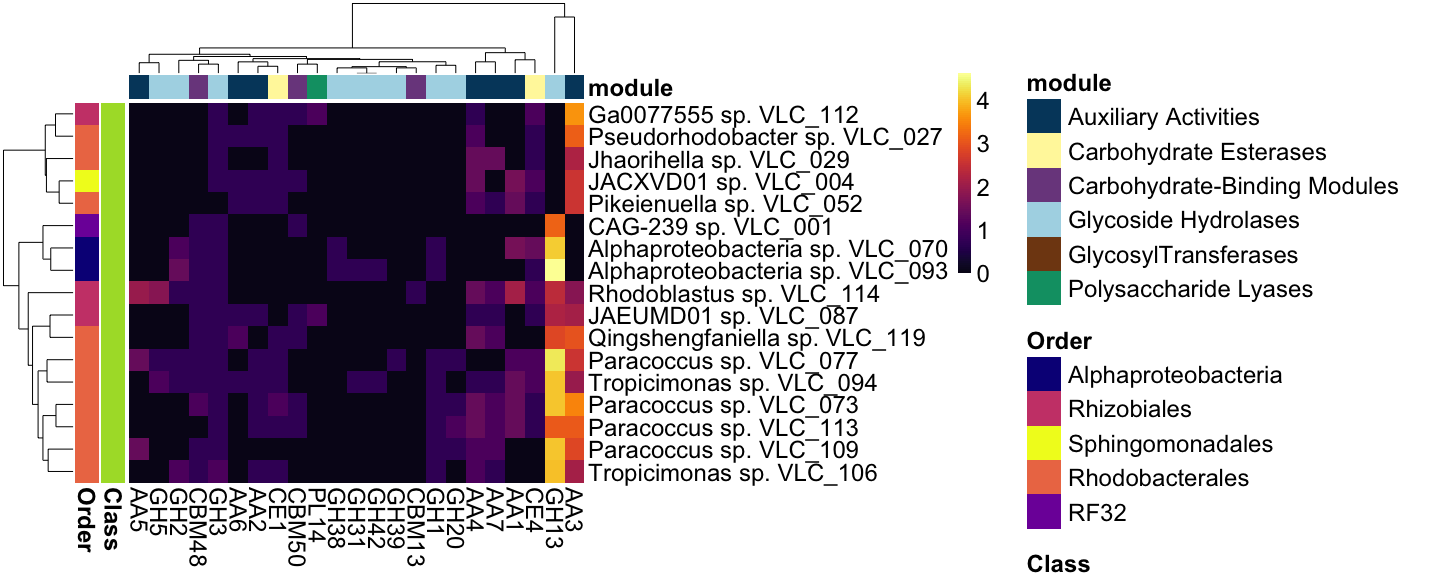
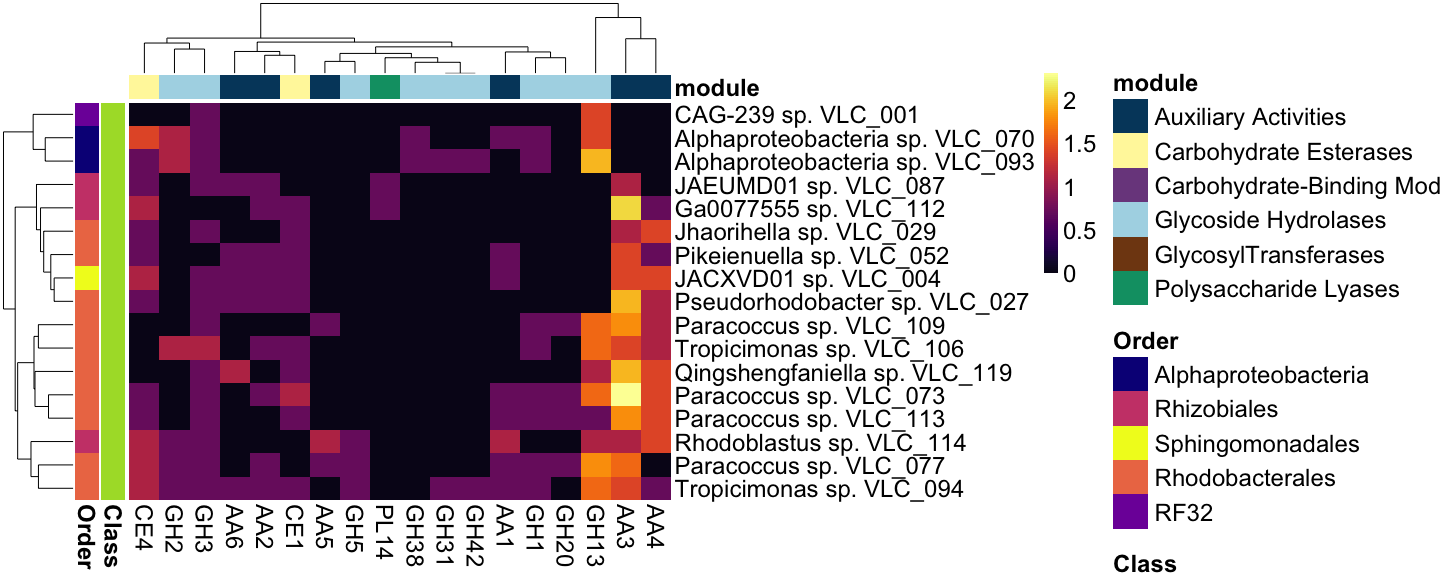
updates to remove partial gene hits

diff --git a/scripts/R_scripts/LandCrabMetaG.md b/scripts/R_scripts/LandCrabMetaG.md
@@ -1,7 +1,7 @@
 Land Crab Gut Microbiomes
 ================
 Cassie Ettinger
-2024-10-01
+2026-11-02
 
 Project: Unlocking the terrestrial realm: Are microbial symbioses the
 key to land crab terrestrial invasions? Collaborators: Cassie Ettinger,
@@ -1002,6 +1002,9 @@ krak_bray_crab_phylo = plot_ordination(physeq = physeq_krak_nC_bac,
 # Save as PNG
 ggsave("plots/ordination/mag_kraken_ordinations_diffgroup.png",
     dpi = 300, device = "png", height = 10, width = 9, units = "in")
+
+ggsave("plots/ordination/mag_kraken_ordinations_diffgroup.pdf",
+    dpi = 300, device = "pdf", height = 10, width = 9, units = "in")
 ```
 
 ``` r
@@ -4182,6 +4185,14 @@ dbcan.dram.meta <- vroom("data/DRAM/carbon_util.txt")
     ## ℹ Specify the column types or set `show_col_types = FALSE` to quiet this message.
 
 ``` r
+gff <- vroom("data/DRAM/annotation/genes.gff", delim = "\t",
+    comment = "#", col_names = FALSE, quote = "", show_col_types = FALSE) %>%
+    transmute(...1 = str_match(X9, "ID=([^;]+)")[, 2], partial = str_match(X9,
+        "partial=([01]{2})")[, 2])
+
+annot <- annot %>%
+    left_join(gff, by = "...1")
+
 mag_ids <- vroom("data/mag_table_vlc.txt") %>%
     mutate(TaxName = paste0(`GTDB Taxonomy`, " ", `Bin ID`))
 ```
@@ -4208,6 +4219,7 @@ totals <- annot %>%
     mutate_at("cazy_ids", str_replace, "_Glycos_transf", "") %>%
     mutate_at("cazy_ids", str_replace, "_Glyco_tranf_5", "") %>%
     filter(cazy_ids != "SLH") %>%
+    distinct(...1, cazy_ids) %>%
     mutate(Family = ifelse(str_detect(cazy_ids, "GT"), "GT",
         ifelse(str_detect(cazy_ids, "CE"), "CE", ifelse(str_detect(cazy_ids,
             "GH"), "GH", ifelse(str_detect(cazy_ids, "AA"), "AA",
@@ -4218,10 +4230,10 @@ totals <- annot %>%
 
 
 annot.filt <- annot %>%
-    filter(str_detect(cazy_hits, paste("\\b", fn_of_interset$CAZY,
-        "\\b", collapse = "|", sep = "")) | str_detect(kegg_hit,
+    filter((str_detect(cazy_ids, paste("\\b", trimws(fn_of_interset$CAZY),
+        "(_\\d+)?\\b", collapse = "|", sep = "")) | str_detect(kegg_hit,
         paste("\\b", na.omit(fn_of_interset$KEGG), "\\b", collapse = "|",
-            sep = ""))) %>%
+            sep = ""))) & partial == "00") %>%
     separate_longer_delim(cazy_ids, delim = "; ") %>%
     mutate_at("cazy_ids", str_replace, "_\\d+", "") %>%
     mutate_at("cazy_ids", str_replace, "_Glyco_tranf_3", "") %>%
@@ -4230,6 +4242,8 @@ annot.filt <- annot %>%
     mutate_at("fasta", str_replace, ".contigs", "-contigs") %>%
     mutate_at("fasta", str_replace, "_cleaned", "") %>%
     filter(cazy_ids != "SLH") %>%
+    distinct(...1, fasta, cazy_ids) %>%
+    filter(cazy_ids %in% trimws(fn_of_interset$CAZY)) %>%
     left_join(mag_ids, by = c(fasta = "bin_name")) %>%
     count(TaxName, cazy_ids) %>%
     pivot_wider(names_from = cazy_ids, values_from = n, values_fill = 0)
@@ -4307,10 +4321,10 @@ ph.sup <- as.ggplot(pheatmap(log(annot.filt + 1), cluster_cols = TRUE,
 
 ``` r
 annot.filt <- annot %>%
-    filter(str_detect(cazy_hits, paste("\\b", fn_of_interset$CAZY,
-        "\\b", collapse = "|", sep = "")) | str_detect(kegg_hit,
+    filter((str_detect(cazy_ids, paste("\\b", trimws(fn_of_interset$CAZY),
+        "(_\\d+)?\\b", collapse = "|", sep = "")) | str_detect(kegg_hit,
         paste("\\b", na.omit(fn_of_interset$KEGG), "\\b", collapse = "|",
-            sep = ""))) %>%
+            sep = ""))) & partial == "00") %>%
     separate_longer_delim(cazy_ids, delim = "; ") %>%
     mutate_at("cazy_ids", str_replace, "_\\d+", "") %>%
     mutate_at("cazy_ids", str_replace, "_Glyco_tranf_3", "") %>%
@@ -4319,6 +4333,8 @@ annot.filt <- annot %>%
     mutate_at("fasta", str_replace, ".contigs", "-contigs") %>%
     mutate_at("fasta", str_replace, "_cleaned", "") %>%
     filter(cazy_ids != "SLH") %>%
+    distinct(...1, fasta, cazy_ids) %>%
+    filter(cazy_ids %in% trimws(fn_of_interset$CAZY)) %>%
     left_join(mag_ids, by = c(fasta = "bin_name")) %>%
     filter(Class == "Bacteroidia") %>%
     count(TaxName, cazy_ids) %>%
@@ -4440,10 +4456,10 @@ ggsave("plots/function/ra_heatmap_bact.pdf", dpi = 300, device = "pdf",
 
 ``` r
 annot.filt <- annot %>%
-    filter(str_detect(cazy_hits, paste("\\b", fn_of_interset$CAZY,
-        "\\b", collapse = "|", sep = "")) | str_detect(kegg_hit,
+    filter((str_detect(cazy_ids, paste("\\b", trimws(fn_of_interset$CAZY),
+        "(_\\d+)?\\b", collapse = "|", sep = "")) | str_detect(kegg_hit,
         paste("\\b", na.omit(fn_of_interset$KEGG), "\\b", collapse = "|",
-            sep = ""))) %>%
+            sep = ""))) & partial == "00") %>%
     separate_longer_delim(cazy_ids, delim = "; ") %>%
     mutate_at("cazy_ids", str_replace, "_\\d+", "") %>%
     mutate_at("cazy_ids", str_replace, "_Glyco_tranf_3", "") %>%
@@ -4452,6 +4468,8 @@ annot.filt <- annot %>%
     mutate_at("fasta", str_replace, ".contigs", "-contigs") %>%
     mutate_at("fasta", str_replace, "_cleaned", "") %>%
     filter(cazy_ids != "SLH") %>%
+    distinct(...1, fasta, cazy_ids) %>%
+    filter(cazy_ids %in% trimws(fn_of_interset$CAZY)) %>%
     left_join(mag_ids, by = c(fasta = "bin_name")) %>%
     filter(Class == "Actinomycetia") %>%
     count(TaxName, cazy_ids) %>%
@@ -4564,16 +4582,17 @@ bar_side_plot_mag
 ``` r
 # Display and save the plot as a PNG
 ggsave("plots/function/ra_heatmap_act.png", dpi = 300, device = "png",
-    height = 6, width = 14, units = "in")
+    height = 7, width = 17, units = "in")
 ggsave("plots/function/ra_heatmap_act.pdf", dpi = 300, device = "pdf",
-    height = 6, width = 14, units = "in")
+    height = 7, width = 17, units = "in")
 ```
 
 ### Focus on Clostridia
 
 ``` r
 annot.filt <- annot %>%
-  filter(str_detect(cazy_hits, paste("\\b", fn_of_interset$CAZY, "\\b", collapse = "|", sep = "")) | str_detect(kegg_hit, paste("\\b",na.omit(fn_of_interset$KEGG), "\\b", collapse = "|", sep=""))) %>%
+    filter((str_detect(cazy_ids, paste("\\b", trimws(fn_of_interset$CAZY), "(_\\d+)?\\b", collapse = "|", sep = "")) |str_detect(kegg_hit, paste("\\b", na.omit(fn_of_interset$KEGG), "\\b", collapse = "|", sep = ""))) &
+           partial == "00") %>%
   separate_longer_delim(cazy_ids, delim = "; ") %>%
   mutate_at("cazy_ids", str_replace, "_\\d+", "") %>%
   mutate_at("cazy_ids", str_replace, "_Glyco_tranf_3", "") %>%
@@ -4582,6 +4601,8 @@ annot.filt <- annot %>%
   mutate_at("fasta", str_replace, ".contigs", "-contigs") %>%
   mutate_at("fasta", str_replace, "_cleaned", "") %>%
   filter(cazy_ids != 'SLH') %>%
+  distinct(`...1`, fasta, cazy_ids) %>% 
+  filter(cazy_ids %in% trimws(fn_of_interset$CAZY)) %>%
   left_join(mag_ids, by=c('fasta' = 'bin_name')) %>%
   filter(Class == "Clostridia") %>% 
   count(TaxName, cazy_ids) %>% 
@@ -4713,7 +4734,8 @@ ggsave("plots/function/ra_heatmap_clo.pdf", dpi = 300, device = "pdf",
 
 ``` r
 annot.filt <-  annot %>%
-  filter(str_detect(cazy_hits, paste("\\b", fn_of_interset$CAZY, "\\b", collapse = "|", sep = "")) | str_detect(kegg_hit, paste("\\b",na.omit(fn_of_interset$KEGG), "\\b", collapse = "|", sep=""))) %>%
+    filter((str_detect(cazy_ids, paste("\\b", trimws(fn_of_interset$CAZY), "(_\\d+)?\\b", collapse = "|", sep = "")) |str_detect(kegg_hit, paste("\\b", na.omit(fn_of_interset$KEGG), "\\b", collapse = "|", sep = ""))) &
+           partial == "00") %>%
   separate_longer_delim(cazy_ids, delim = "; ") %>%
   mutate_at("cazy_ids", str_replace, "_\\d+", "") %>%
   mutate_at("cazy_ids", str_replace, "_Glyco_tranf_3", "") %>%
@@ -4722,6 +4744,8 @@ annot.filt <-  annot %>%
   mutate_at("fasta", str_replace, ".contigs", "-contigs") %>%
   mutate_at("fasta", str_replace, "_cleaned", "") %>%
   filter(cazy_ids != 'SLH') %>%
+  distinct(`...1`, fasta, cazy_ids) %>% 
+  filter(cazy_ids %in% trimws(fn_of_interset$CAZY)) %>%
   left_join(mag_ids, by=c('fasta' = 'bin_name')) %>%
   filter(Class == "Gammaproteobacteria") %>% 
   count(TaxName, cazy_ids) %>% 
@@ -4843,16 +4867,17 @@ bar_side_plot_mag
 ``` r
 # Display and save the plot as a PNG
 ggsave("plots/function/ra_heatmap_gam.png", dpi = 300, device = "png",
-    height = 6, width = 16, units = "in")
+    height = 8, width = 22, units = "in")
 ggsave("plots/function/ra_heatmap_gam.pdf", dpi = 300, device = "pdf",
-    height = 6, width = 16, units = "in")
+    height = 8, width = 22, units = "in")
 ```
 
 ### Focus on Alphaproteobacteria
 
 ``` r
 annot.filt <- annot %>%
-  filter(str_detect(cazy_hits, paste("\\b", fn_of_interset$CAZY, "\\b", collapse = "|", sep = "")) | str_detect(kegg_hit, paste("\\b",na.omit(fn_of_interset$KEGG), "\\b", collapse = "|", sep=""))) %>%
+    filter((str_detect(cazy_ids, paste("\\b", trimws(fn_of_interset$CAZY), "(_\\d+)?\\b", collapse = "|", sep = "")) |str_detect(kegg_hit, paste("\\b", na.omit(fn_of_interset$KEGG), "\\b", collapse = "|", sep = ""))) &
+           partial == "00") %>%
   separate_longer_delim(cazy_ids, delim = "; ") %>%
   mutate_at("cazy_ids", str_replace, "_\\d+", "") %>%
   mutate_at("cazy_ids", str_replace, "_Glyco_tranf_3", "") %>%
@@ -4861,6 +4886,8 @@ annot.filt <- annot %>%
   mutate_at("fasta", str_replace, ".contigs", "-contigs") %>%
   mutate_at("fasta", str_replace, "_cleaned", "") %>%
   filter(cazy_ids != 'SLH') %>%
+  distinct(`...1`, fasta, cazy_ids) %>% 
+  filter(cazy_ids %in% trimws(fn_of_interset$CAZY)) %>%
   left_join(mag_ids, by=c('fasta' = 'bin_name')) %>%
   filter(Class == "Alphaproteobacteria") %>% 
   count(TaxName, cazy_ids) %>% 
@@ -4996,7 +5023,8 @@ ggsave("plots/function/ra_heatmap_alp.pdf", dpi = 300, device = "pdf",
 
 ``` r
 annot.filt <- annot %>%
-  filter(str_detect(cazy_hits, paste("\\b", fn_of_interset$CAZY, "\\b", collapse = "|", sep = "")) | str_detect(kegg_hit, paste("\\b",na.omit(fn_of_interset$KEGG), "\\b", collapse = "|", sep=""))) %>%
+    filter((str_detect(cazy_ids, paste("\\b", trimws(fn_of_interset$CAZY), "(_\\d+)?\\b", collapse = "|", sep = "")) |str_detect(kegg_hit, paste("\\b", na.omit(fn_of_interset$KEGG), "\\b", collapse = "|", sep = ""))) &
+           partial == "00") %>%
   separate_longer_delim(cazy_ids, delim = "; ") %>%
   mutate_at("cazy_ids", str_replace, "_\\d+", "") %>%
   mutate_at("cazy_ids", str_replace, "_Glyco_tranf_3", "") %>%
@@ -5005,6 +5033,8 @@ annot.filt <- annot %>%
   mutate_at("fasta", str_replace, ".contigs", "-contigs") %>%
   mutate_at("fasta", str_replace, "_cleaned", "") %>%
   filter(cazy_ids != 'SLH') %>%
+  distinct(`...1`, fasta, cazy_ids) %>% 
+  filter(cazy_ids %in% trimws(fn_of_interset$CAZY)) %>%
   left_join(mag_ids, by=c('fasta' = 'bin_name')) %>%
   filter(Class == "Bacilli") %>% 
   count(TaxName, cazy_ids) %>% 
